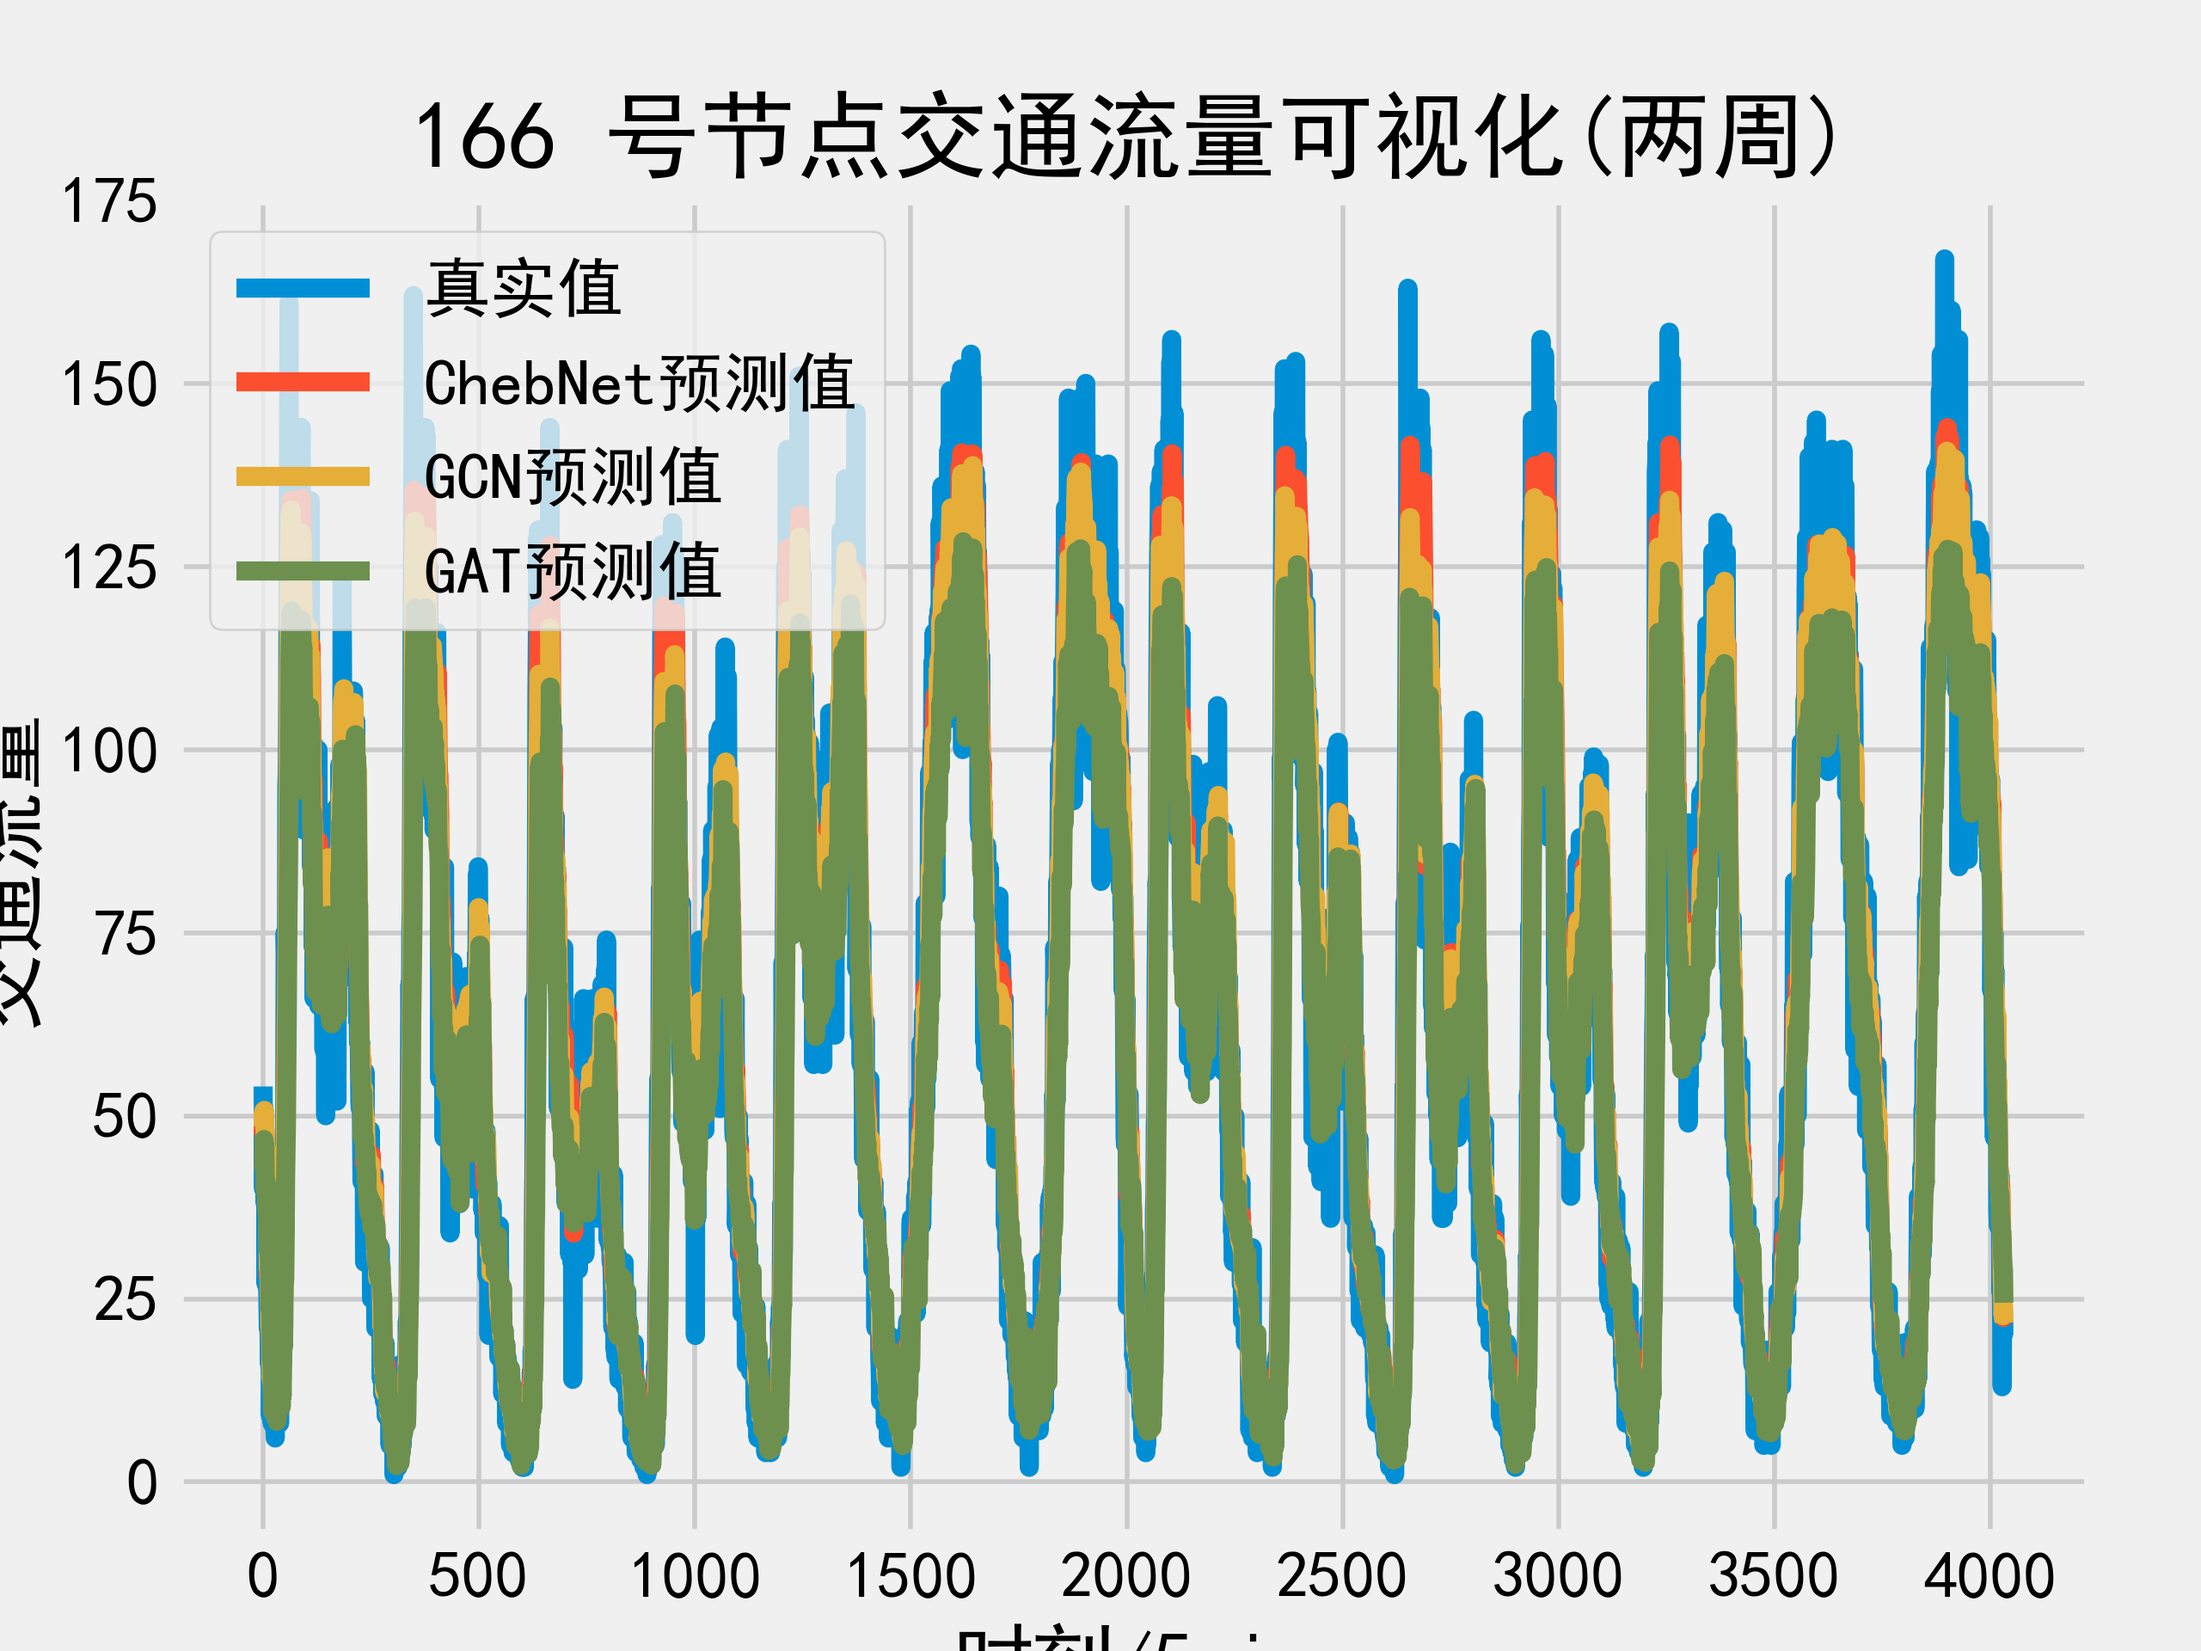
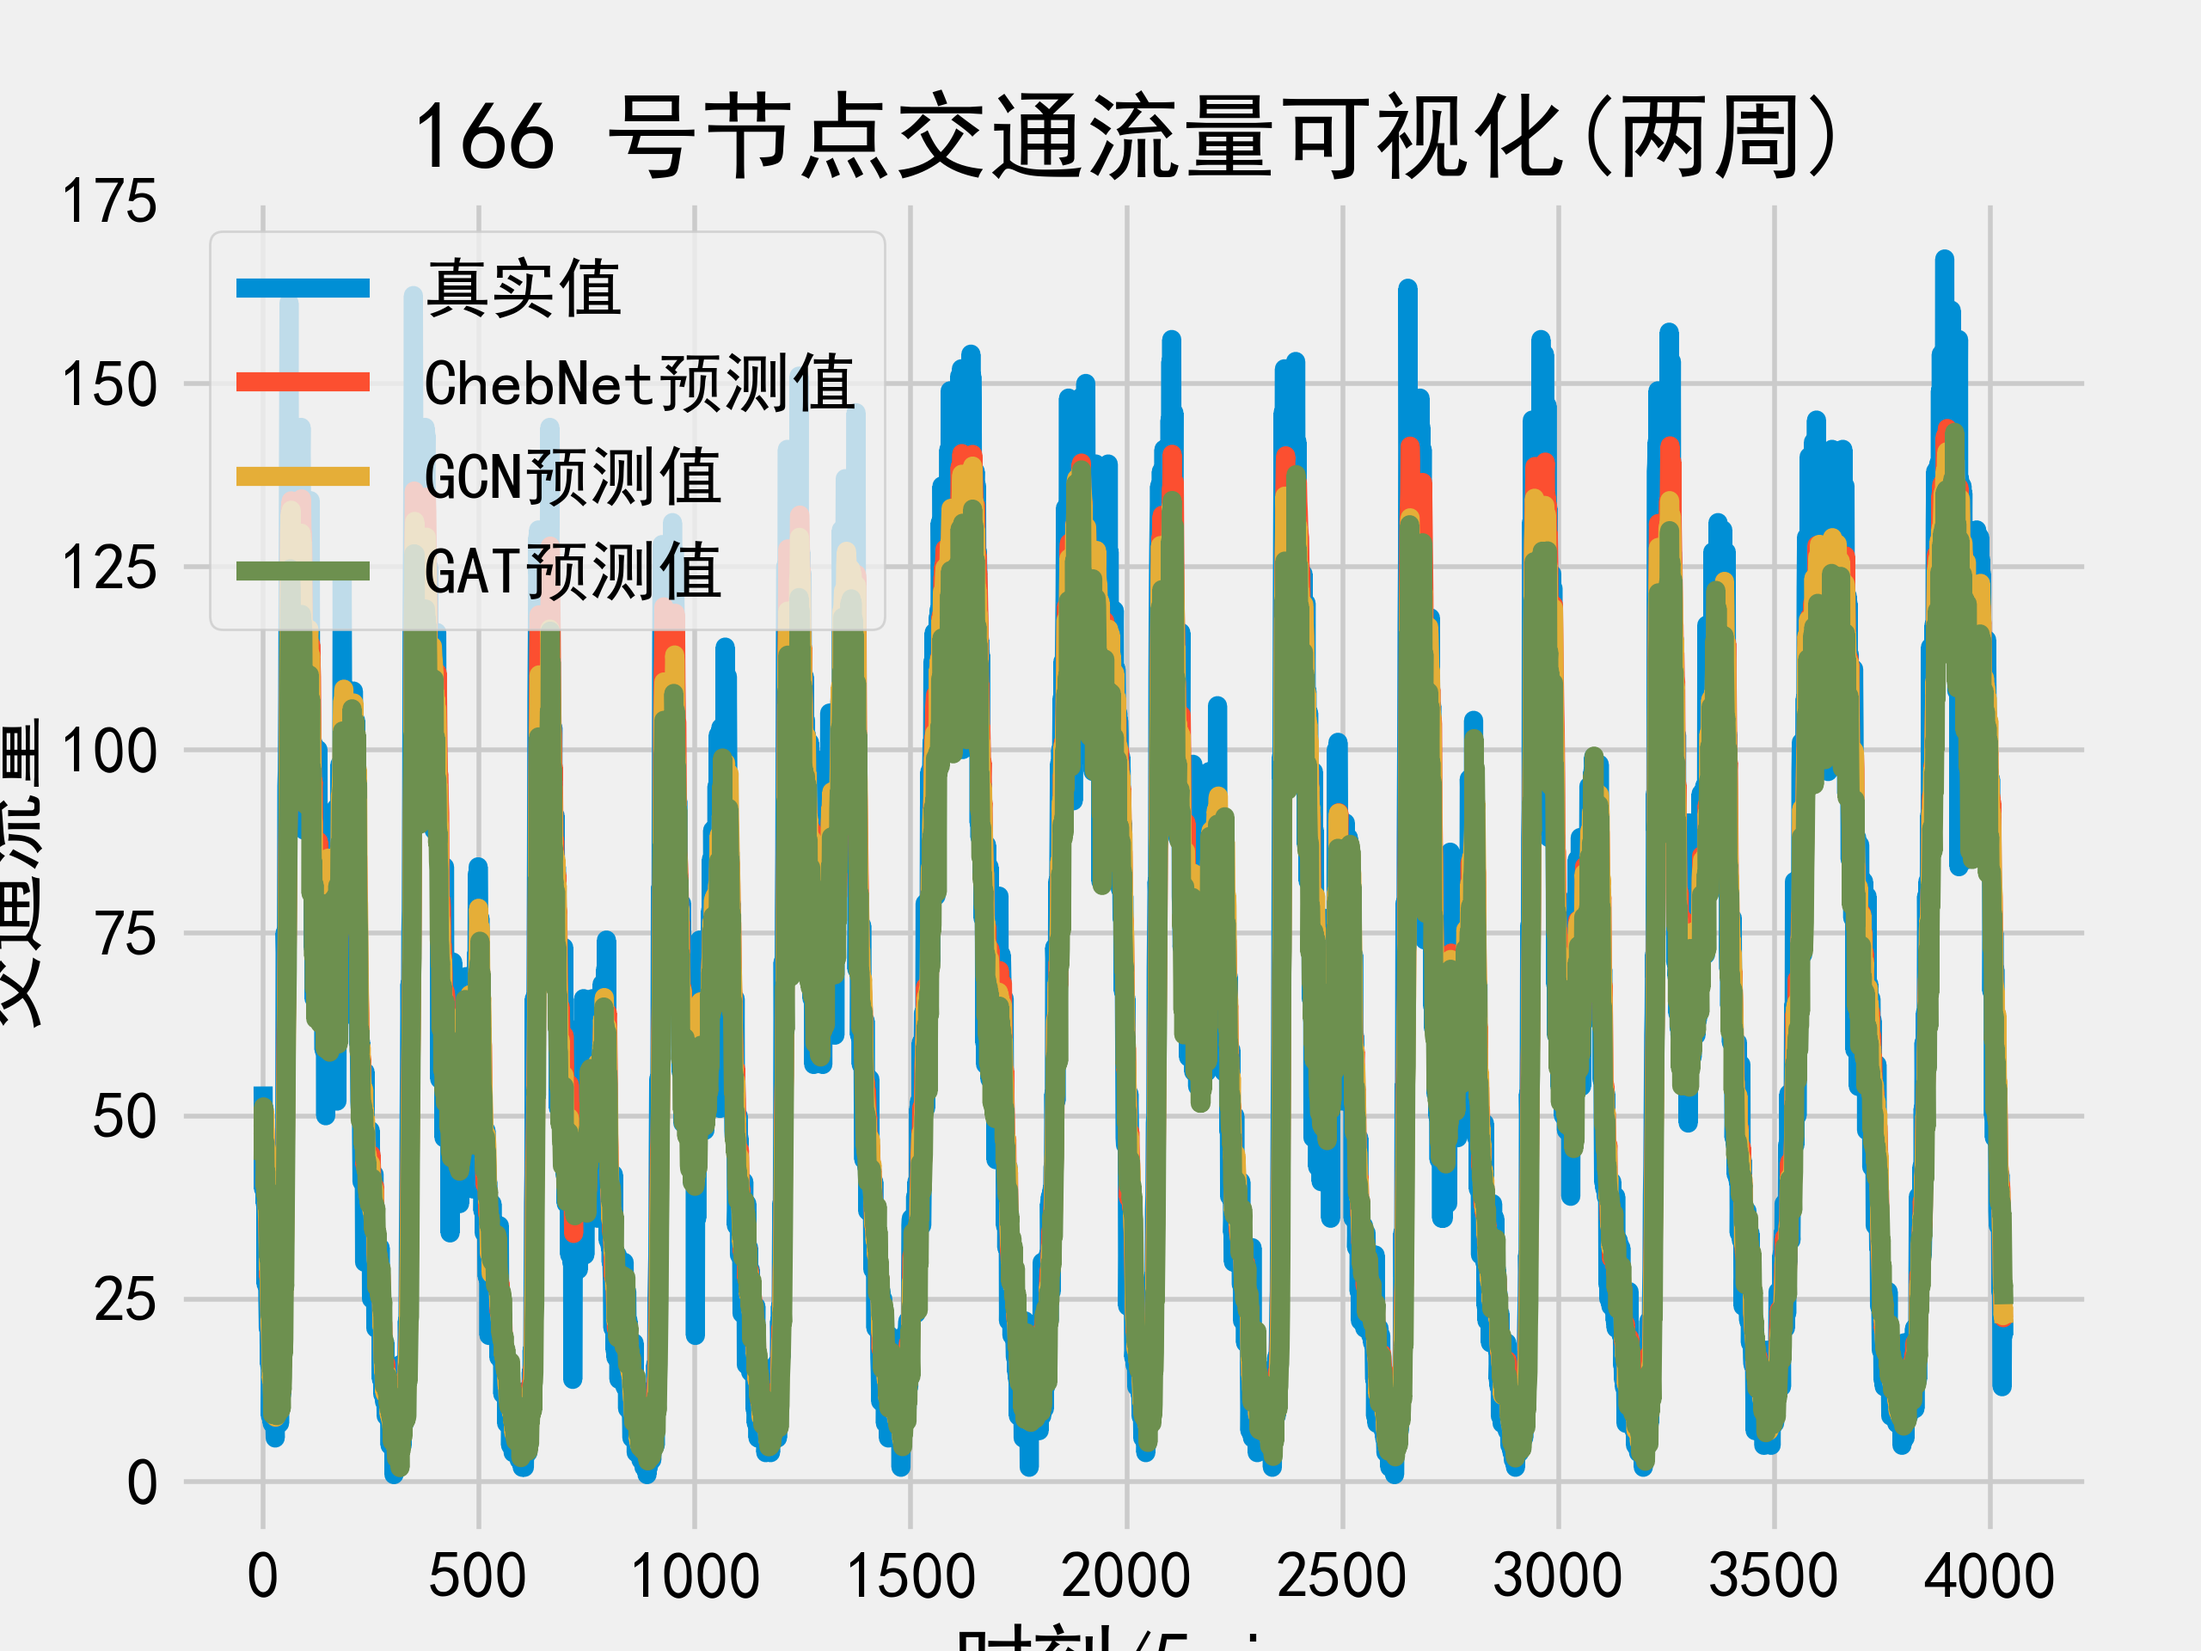
Traffic predict

diff --git a/TrafficPrediction/scripts/traffic_prediction.py b/TrafficPrediction/scripts/traffic_prediction.py
@@ -29,7 +29,7 @@ train_loader, test_loader = get_loader('PEMS08')
 
 gcn = GCN(6, 6, 1)
 chebnet = ChebNet(6, 6, 1, 1)
-gat = GAT(6, 6, 1, 3)
+gat = GAT(6, 6, 1, 1)
 device = torch.device("cuda" if torch.cuda.is_available() else "cpu")
 models = [chebnet.to(device), gcn.to(device), gat.to(device)]
 
